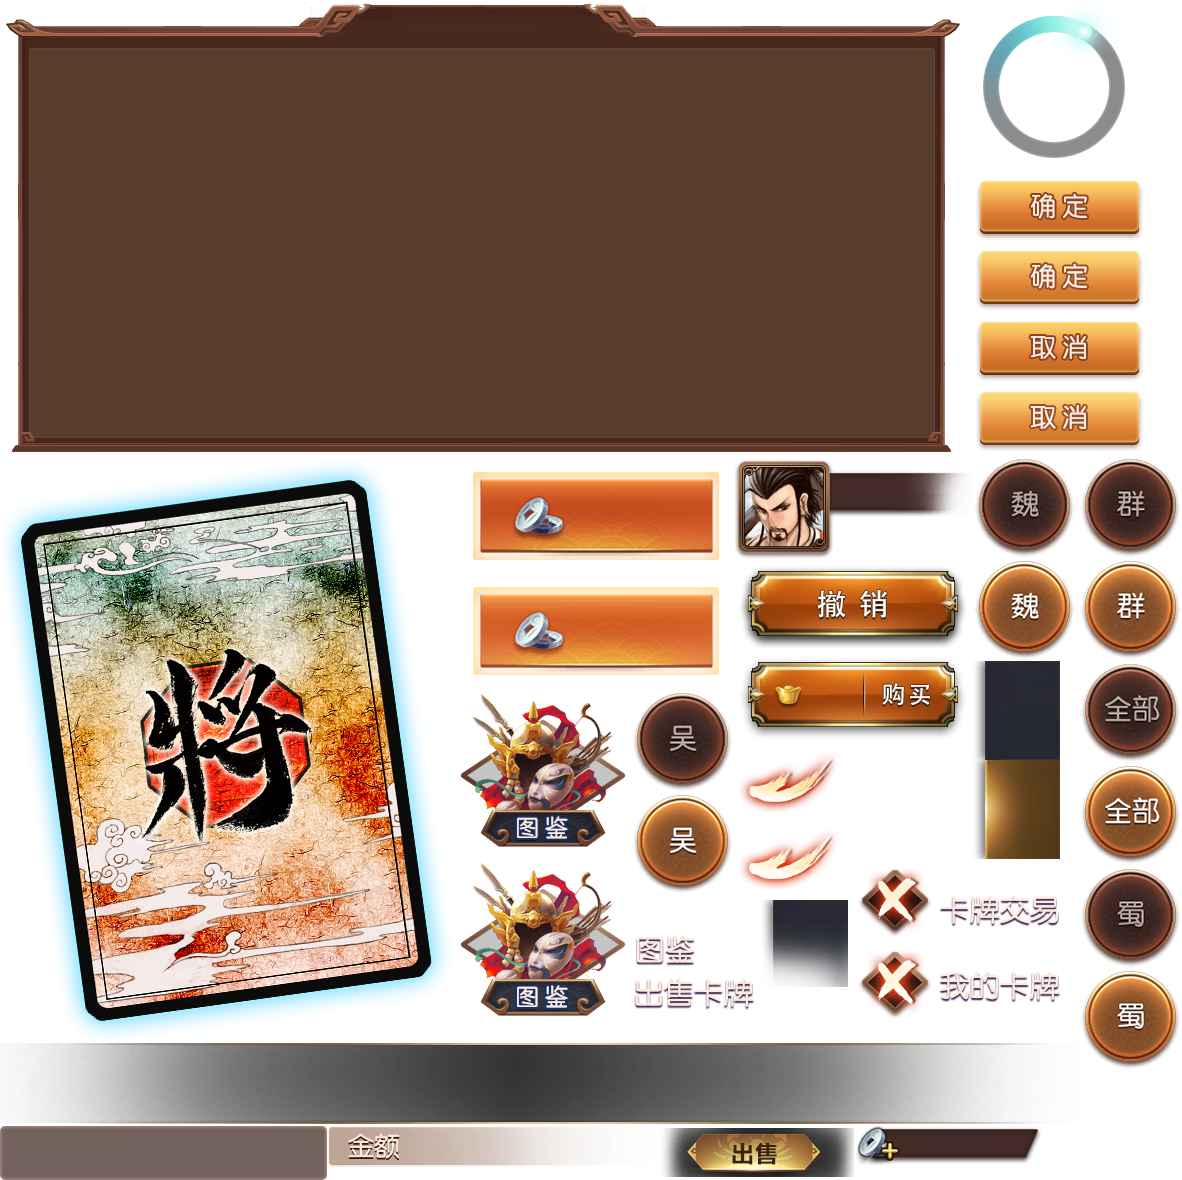
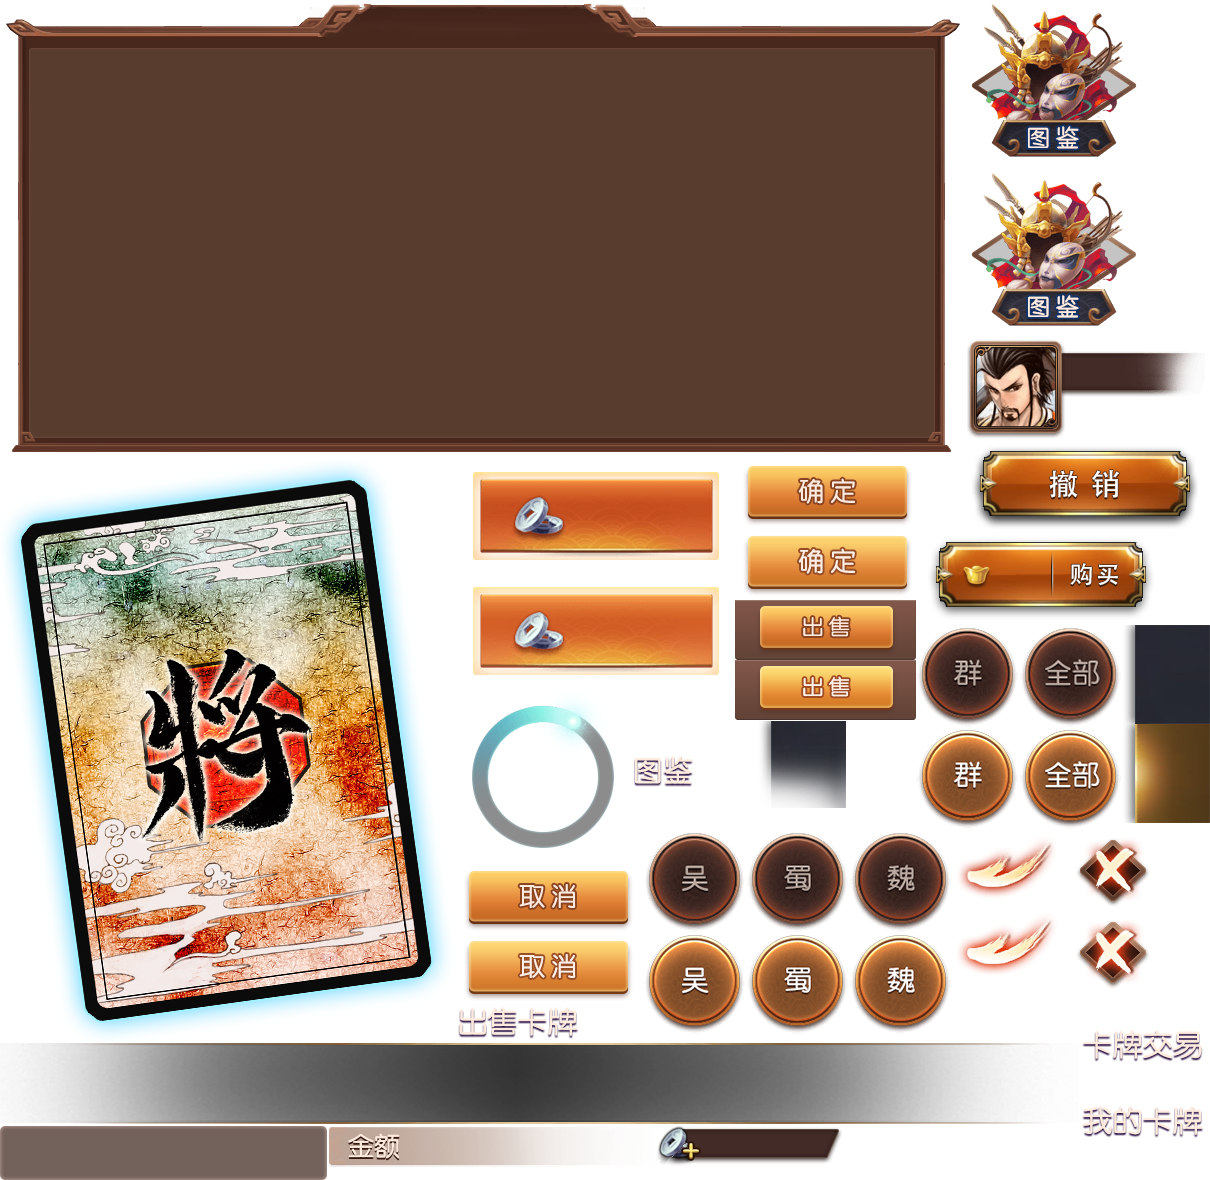
btn_sell

diff --git a/sgs_demo/src/cardPackage/CardPackageCard.ts b/sgs_demo/src/cardPackage/CardPackageCard.ts
@@ -4,19 +4,22 @@
 class CardPackageCard extends Card {
     constructor() {
         super();
-        this._btnSell = new Laya.Button("menu/btn_sell.png");
-        this._btnSell.stateNum = 1;
+        this._btnSell = new Laya.Button("menu/btn_sell.png")
+        this._btnSell.stateNum = 2
+        // this._btnSell.anchorX = this._btnSell.anchorY = 0.5
         this._btnSell.centerX = 0;
         this._btnSell.bottom = 0;
         this._btnSell.on(Laya.Event.CLICK, this, this.onTouch);
         this.addChild(this._btnSell);
-        this._labCount = new Laya.Label();
+        this._labCount = new Laya.Label(" ");
         this._labCount.right = 20;
-        this._labCount.bottom = 20;
-        this._labCount.fontSize = 30;
+        this._labCount.valign = "middle"
+        this._labCount.fontSize = 25;
         this._labCount.color = "#ffffff";
         this._labCount.stroke = 5;
         this._labCount.strokeColor = "0000000";
+        console.log("this._labCount.height:" + this._labCount.height)
+        this._labCount.bottom = this._btnSell.height - this._labCount.height >> 1
         this.addChild(this._labCount);
     }
     private _labCount: Laya.Label;

diff --git a/sgs_demo/src/cards/CardList.ts b/sgs_demo/src/cards/CardList.ts
@@ -65,8 +65,7 @@ class CardList extends ui.cards.BaseCardListUI {
         this._tab.removeChildren();
         this._tab.initItems();
         for (var i: number = 0; i < 5; i++) {
-            var btn: Laya.Button = new runtime.RuntimeClickBtn();
-            btn.skin = "menu/icon_camp_" + (i + 1) + ".png";
+            var btn: Laya.Button = new runtime.RuntimeClickBtn("menu/icon_camp_" + (i + 1) + ".png");
             btn.anchorX = btn.anchorY = 0.5
             btn.stateNum = 2;
             btn.labelColors = "#e2eff7,#e2eff7,#e2eff7,#e2eff7";

diff --git a/sgs_demo/src/cards/Card.ts b/sgs_demo/src/cards/Card.ts
@@ -11,7 +11,9 @@ class Card extends ui.cards.CardUI {
             this.visible = true;
             this._icon.skin = "cards/" + this.dataSource.cfg.icon + ".png"
             this._imgName.skin = "cardsname/" + this.dataSource.cfg.icon + ".png"
-            this._star.skin = "star/" + this.dataSource.star + ".png"
+            if (this.dataSource.star) {
+                this._star.skin = "star/" + this.dataSource.star + ".png"
+            }
         } else
             this.visible = false;
     }

diff --git a/sgs_demo/src/scene/SceneLogin.ts b/sgs_demo/src/scene/SceneLogin.ts
@@ -169,8 +169,7 @@ class SceneLogin extends Laya.View {
         this.addChild(this._bgLogin)
     }
     private initLoginBtn() {
-        this._btnLogin = new runtime.RuntimeClickBtn()
-        this._btnLogin.skin = "login/btn_guest.png"
+        this._btnLogin = new runtime.RuntimeClickBtn("login/btn_guest.png")
         this._btnLogin.anchorX = this._btnLogin.anchorY = 0.5
         this._btnLogin.stateNum = 2
         this._btnLogin.centerX = 0

diff --git a/sgs_demo/src/runtime/RuntimeClickBtn.ts b/sgs_demo/src/runtime/RuntimeClickBtn.ts
@@ -4,8 +4,8 @@ module runtime {
     */
     export class RuntimeClickBtn extends Laya.Button {
         static scaleTime: number = 100;
-        constructor() {
-            super();
+        constructor(skin: string) {
+            super(skin)
             //设置组件的中心点
             // this.stateNum = 3
             // this.anchorX = this.anchorY = 0.5;
